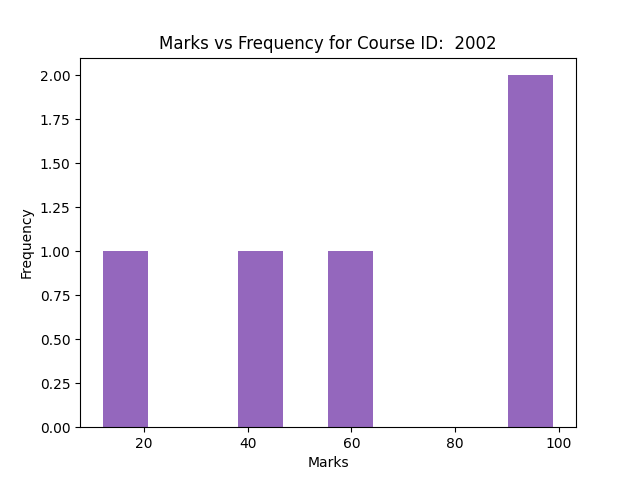
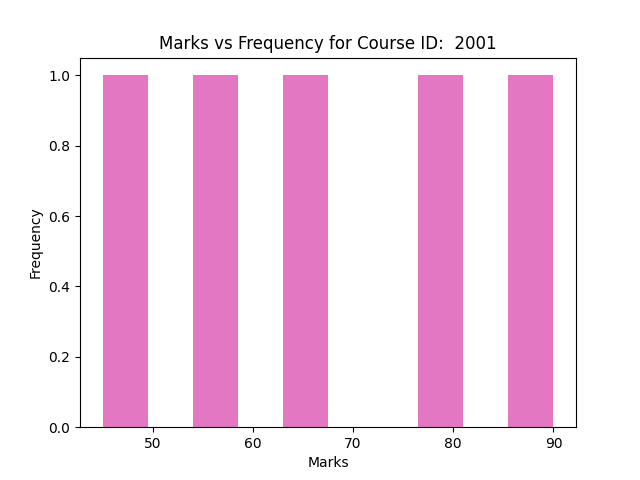
✅ lab 4

diff --git a/week-4/lab/templates/student_output.html b/week-4/lab/templates/student_output.html
@@ -1,0 +1,33 @@
+<!DOCTYPE html>
+<html lang="en">
+  <head>
+    <meta charset="UTF-8" />
+    <meta name="viewport" content="width=device-width, initial-scale=1.0" />
+    <title>Student Details</title>
+  </head>
+
+  <body>
+    <h1>Student Details</h1>
+    <table border="2" id="student-details-table">
+      <tr>
+        <th>Student ID</th>
+        <th>Course ID</th>
+        <th>Marks</th>
+      </tr>
+      {% for row in student_data %}
+      <tr>
+        <td>{{row.student_id}}</td>
+        <td>{{row.course_id}}</td>
+        <td>{{row.marks}}</td>
+      </tr>
+      {% endfor %}
+      <tr>
+        <td colspan="2" style="text-align: center">Total Marks</td>
+        <td>{{total_marks}}</td>
+      </tr>
+    </table>
+    <p>
+      <a href="/">Go back</a>
+    </p>
+  </body>
+</html>

diff --git a/week-4/lab/templates/index.html b/week-4/lab/templates/index.html
@@ -6,16 +6,16 @@
     <title>Document</title>
   </head>
   <body>
-    <form action="/" method="post">
+    <form action="/" method="post" id="data-form">
       <label>
-        <input type="radio" name="student_or_course" value="student" checked />
+        <input type="radio" name="ID" value="student_id" checked />
         Student ID
       </label>
       <label>
-        <input type="radio" name="student_or_course" value="course" />
+        <input type="radio" name="ID" value="course_id" />
         Course ID
       </label>
-      <input type="text" name="id" value="1001" />
+      <input type="text" name="id_value" value="1001" />
       <input type="submit" value="Submit" />
     </form>
   </body>

diff --git a/week-4/lab/templates/course_output.html b/week-4/lab/templates/course_output.html
@@ -1,0 +1,26 @@
+<!DOCTYPE html>
+<html lang="en">
+  <head>
+    <meta charset="UTF-8" />
+    <meta name="viewport" content="width=device-width, initial-scale=1.0" />
+    <title>Student Details</title>
+  </head>
+
+  <body>
+    <h1>Course Details</h1>
+    <table border="2" id="course-details-table">
+      <tr>
+        <th>Average Marks</th>
+        <th>Maximum Marks</th>
+      </tr>
+      <tr>
+        <td>{{avg_marks}}</td>
+        <td>{{max_marks}}</td>
+      </tr>
+    </table>
+    <img src="/static/histogram.png" alt="Marks vs Frequency" />
+    <p>
+      <a href="/">Go back</a>
+    </p>
+  </body>
+</html>

diff --git a/week-4/lab/app.py b/week-4/lab/app.py
@@ -34,7 +34,7 @@ def get_course_data(course_id):
 
 
 def generate_error_output():
-  return render_template('error_output.j2')
+  return render_template('error_output.html')
 
 
 def generate_student_output(student_id):
@@ -44,7 +44,7 @@ def generate_student_output(student_id):
     return generate_error_output()
 
   # https://stackoverflow.com/a/55176881
-  return render_template('student_output.j2', student_data=student_data, total_marks=total_marks)
+  return render_template('student_output.html', student_data=student_data, total_marks=total_marks)
 
 
 def generate_histogram(marks, course_id):
@@ -65,7 +65,8 @@ def generate_course_output(course_id):
   except:
     return generate_error_output()
 
-  return render_template('course_output.j2', avg_marks=avg_marks, max_marks=max_marks)
+  generate_histogram(marks, course_id)
+  return render_template('course_output.html', avg_marks=avg_marks, max_marks=max_marks)
 
 
 @app.route('/', methods=['GET', 'POST'])
@@ -73,12 +74,12 @@ def root():
   if request.method == 'GET':
     return render_template('index.html')
   elif request.method == 'POST':
-    student_or_course = request.form.get('student_or_course')
-    id = request.form.get('id')
-    if student_or_course == 'student':
-      return generate_student_output(id)
-    elif student_or_course == 'course':
-      return generate_course_output(f' {id}')
+    ID = request.form.get('ID')
+    id_value = request.form.get('id_value')
+    if ID == 'student_id':
+      return generate_student_output(id_value)
+    elif ID == 'course_id':
+      return generate_course_output(f' {id_value}')
     else:
       return generate_error_output()
 
